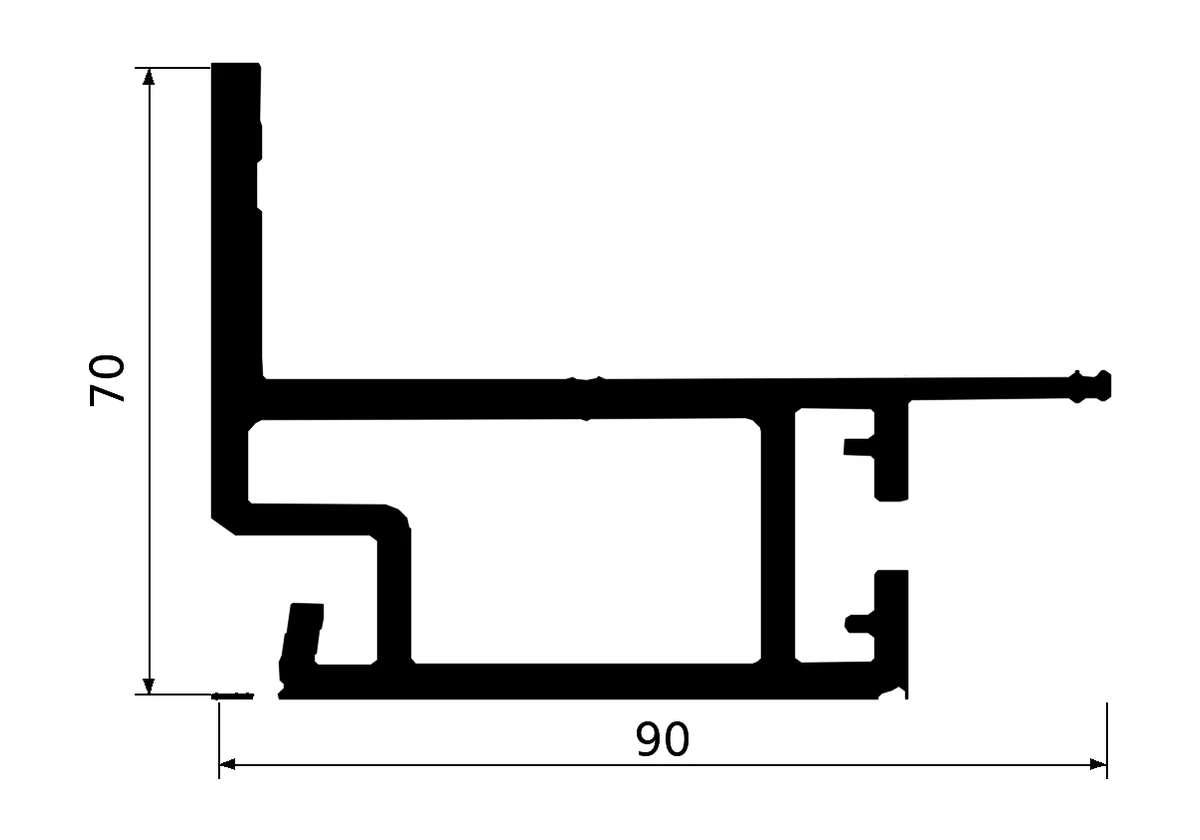
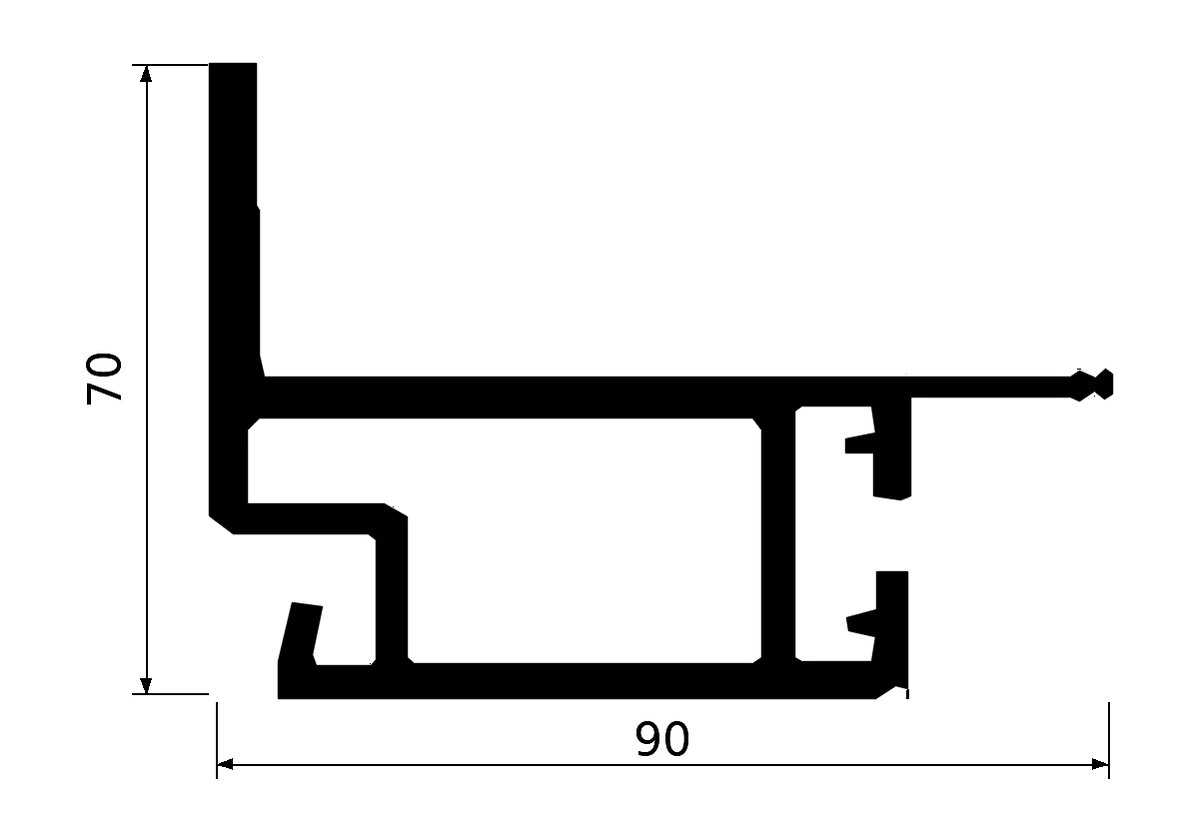
Első oszlop 90/70 és Hátsó oszlop 128/35 (D): egyenesített, tengelyre igazított falak
SNAP: a szkennelt rajzoknál a tikkjelek / dudorok eltávolítása, durvább egyenesítés, a közel vízszintes és
függőleges élek pontosan igazítva, apró szkennelési lyukak kitöltve; a régi méretvonal csonkja törölve.

Claude-Session: https://claude.ai/code/session_01GqcGcrqDWYvNfyrVUkczEM

diff --git a/scripts/termekadatok/alvaz_rajzok.py b/scripts/termekadatok/alvaz_rajzok.py
@@ -185,7 +185,8 @@ ERASE = {"202387-i-70-kereszttarto": [(498, 222, 590, 256)],
                                                            (138, 226, 186, 237), (248, 226, 272, 237)],  # + a bordázat fölötti körjelölés
          "227046-n-koztes-200-mm-profil": [(600, 50, 760, 210)],  # az Alu-SV „N” (natúr) jelölése
          # sarokoszlopok: a régi (apró) méretvonalak és számok – helyettük új fő méretek (DIMS)
-         "6612225-elso-oszlop-90-70-alu-elox-d": [(0, 0, 92, 745), (0, 656, 1000, 745), (980, 355, 1000, 745)],
+         "6612225-elso-oszlop-90-70-alu-elox-d": [(0, 0, 92, 745), (0, 656, 1000, 745), (980, 355, 1000, 745),
+                                                  (92, 644, 150, 656)],  # a [70] méret alsó segédvonalának csonkja
          "6612226-hatso-oszlop-128-35-alu-elox-d": [(0, 0, 1000, 108), (868, 108, 1000, 340)],
          "6639604-max-hatso-oszlop-exl-elox": [(915, 0, 1000, 218), (0, 135, 1000, 218), (45, 33, 90, 118),
                                                 (490, 70, 514, 94), (620, 95, 660, 117)],
@@ -207,7 +208,7 @@ FILL_ALL = {"206941-cd-100x30-mm-alafutasgatlo-elox-profil": (20, 230, 285, 990)
 CLOSE_BOX = {"208755-hossztarto-talpas-140-6-magas-120-10-60-8-mm": [(445, 55, 495, 155, 11)],
              # szkennelt körvonalas sarokoszlopok: a fal két vonala közti rés kitöltése a profil területén
              "6612225-elso-oszlop-90-70-alu-elox-d": [(90, 15, 995, 655, 13)],
-             "6612226-hatso-oszlop-128-35-alu-elox-d": [(15, 108, 866, 330, 13)]}  # a profil területe (x0, y0, x1, y1)
+             "6612226-hatso-oszlop-128-35-alu-elox-d": [(15, 108, 866, 330, 19)]}  # a profil területe (x0, y0, x1, y1)
 # álló rajzok fekvőre forgatása (np.rot90 k: 1 = balra, -1 = jobbra), hogy kitöltsék a fekvő vásznat; az irány
 # olyan, hogy a rajz fő (hosszanti) méretszáma olvasható legyen
 ROTATE = {"227046-ck10-koztes-200-mm-elox-profil": -1, "223350-350-mm-mono-profil-szakalas-elox": -1,
@@ -234,6 +235,8 @@ WALL_MM = {"25-mm-vastag-oldalfal-rendszerek": 4, "25-mm-mono-profilok": 4, "sze
            "aluminium-billencs-oldalfalak": 4, "sarok-oszlopok": 5}
 # termékenkénti eltérés a kitöltendő falvastagságtól (mm)
 WALL_SLUG = {"66k0800-alu-zartszelveny-80x35-4r-elox": 1}  # tömör falú forrás: a segédvonalak mellé ne töltsön
+# szkennelt, hullámos falú rajzok: erősebb egyenesítés, tengelyre igazított élek
+SNAP = {"6612225-elso-oszlop-90-70-alu-elox-d", "6612226-hatso-oszlop-128-35-alu-elox-d"}
 # halvány (szürke vonalas) forrásrajzok besötétítése a feldolgozás előtt
 DARKEN = {"6639604-max-hatso-oszlop-exl-elox", "6639692-max-elso-oszlop-exl-elox"}
 # alkategóriák, ahol nem közös a lépték: minden rajz egyenként tölti ki a vásznat (a Quadris kérése: 6613553 mintájára)
@@ -263,7 +266,7 @@ THICK = {"202387-i-70-kereszttarto": 0.05, "202388-15-70-mm-keretprofil-elox-cd"
          "6612225-elso-oszlop-90-70-alu-elox-d": 0.05, "6612226-hatso-oszlop-128-35-alu-elox-d": 0.05}  # szken: szakadások bezárása  # tömör forrásrajz: a C-horony üres marad
 
 
-def normalize(rgb, thick=0.03, fill_all=None, rmax=None):
+def normalize(rgb, thick=0.03, fill_all=None, rmax=None, snap=False):
     """Szürkeárnyalatos, tömör fekete falú rajz + a profil (vastag részek) befoglaló mérete képpontban."""
     L = rgb.mean(axis=2)
     sat = rgb.max(axis=2) - rgb.min(axis=2)
@@ -303,7 +306,7 @@ def normalize(rgb, thick=0.03, fill_all=None, rmax=None):
         x1 = max(stats[i, 0] + stats[i, 2] for i in keep)
         y1 = max(stats[i, 1] + stats[i, 3] for i in keep)
         prof = max(x1 - x0, y1 - y0)
-        out = straighten(out, np.isin(lab, keep), size)
+        out = straighten(out, np.isin(lab, keep), size, snap)
     else:
         prof = size
     return out.astype(np.uint8), prof
@@ -316,7 +319,26 @@ def polygonize(mask, eps):
     return [cv2.approxPolyDP(c, eps, True) for c in cnts], hier
 
 
-def straighten(out, core, size):
+def snap_axes(poly, tol_deg=6):
+    """Közel vízszintes / függőleges szakaszok pontosan vízszintesre / függőlegesre igazítása (a sarkok így
+    derékszögűek maradnak): a szakasz két végpontja a közös (átlagolt) y, ill. x koordinátát kapja."""
+    p = poly.reshape(-1, 2).astype(np.float32)
+    n = len(p)
+    for _ in range(2):
+        for i in range(n):
+            a, b = p[i], p[(i + 1) % n]
+            dx, dy = b[0] - a[0], b[1] - a[1]
+            ang = abs(np.degrees(np.arctan2(dy, dx))) % 180
+            if min(ang, 180 - ang) < tol_deg:
+                y = (a[1] + b[1]) / 2
+                a[1] = b[1] = y
+            elif abs(ang - 90) < tol_deg:
+                x = (a[0] + b[0]) / 2
+                a[0] = b[0] = x
+    return np.round(p).astype(np.int32).reshape(-1, 1, 2)
+
+
+def straighten(out, core, size, snap=False):
     """A profilfalak újrarajzolása precíz, élsimított sokszögként. A falhoz tartozó sötét terület: a tömör
     részek, amelyek a profil fő részével összefüggnek (a vékony méretvonalak – 1–2 px – nem)."""
     solid = (out < 110).astype(np.uint8)
@@ -325,7 +347,16 @@ def straighten(out, core, size):
     ids = np.unique(lab[core & (thick > 0)])
     mask = np.isin(lab, ids[ids > 0])
     eps = max(0.8, size / 1000)  # kis tűrés: az egyenesek kiegyenesednek, az ívek simák maradnak
+    if snap:  # szkennelt rajz: a tikkjelek / dudorok le, durvább tűrés, tengelyre igazított élek
+        mask = cv2.morphologyEx(mask.astype(np.uint8), cv2.MORPH_OPEN, cv2.getStructuringElement(cv2.MORPH_ELLIPSE, (7, 7))) > 0
+        holes = (~mask).astype(np.uint8)  # apró zárt lyukak (szkennelési hibák) kitöltése
+        n_h, lab_h, st_h, _ = cv2.connectedComponentsWithStats(holes, connectivity=4)
+        small = [i for i in range(1, n_h) if st_h[i, cv2.CC_STAT_AREA] < (size * 0.03) ** 2]
+        mask = mask | np.isin(lab_h, small)
+        eps = max(2.0, size * 0.004)
     polys, hier = polygonize(mask, eps)
+    if snap:
+        polys = [snap_axes(p) for p in polys]
     res = out.astype(np.float32).copy()
     res[cv2.dilate(mask.astype(np.uint8), np.ones((3, 3), np.uint8)) > 0] = 255
     canvas = np.full(out.shape, 255, np.uint8)
@@ -484,7 +515,7 @@ def main():
         if cat in WALL_MM:  # a falvastagság mm-ben: előbb a lépték (px/mm) a profil befoglalójából
             _, prof0 = normalize(rgb, THICK.get(slug, 0.03), FILL_ALL.get(slug))
             wall = WALL_SLUG.get(slug, WALL_MM[cat])
-            g, prof = normalize(rgb, THICK.get(slug, 0.03), FILL_ALL.get(slug), rmax=wall / 2 * prof0 / mm)
+            g, prof = normalize(rgb, THICK.get(slug, 0.03), FILL_ALL.get(slug), rmax=wall / 2 * prof0 / mm, snap=slug in SNAP)
         else:
             g, prof = normalize(rgb, THICK.get(slug, 0.03), FILL_ALL.get(slug))
         if slug in LABELS:
